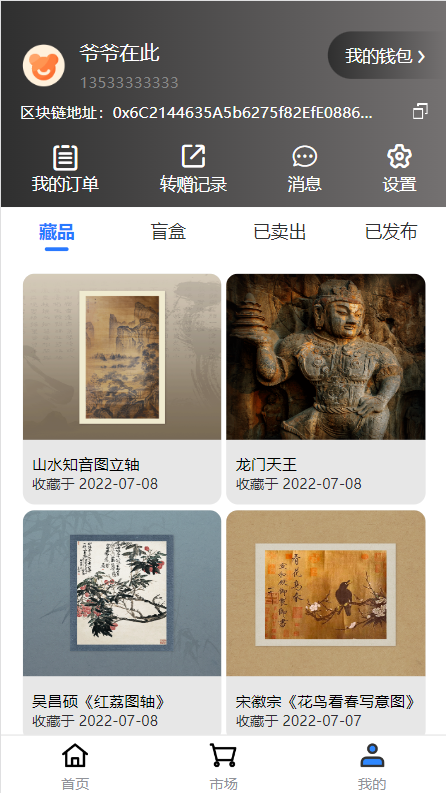
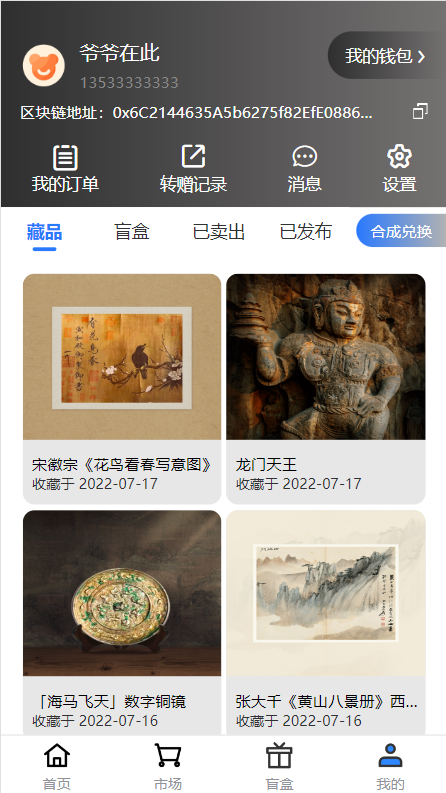
增加藏品合成兑换功能

diff --git a/README.md b/README.md
@@ -43,6 +43,11 @@
         <td><img src="https://github.com/muyu8848/nft/blob/main/img/14.jpg"/></td>
 	<td><img src="https://github.com/muyu8848/nft/blob/main/img/15.jpg"/></td>
     </tr>
+    <tr>
+        <td><img src="https://github.com/muyu8848/nft/blob/main/img/16.jpg"/></td>
+        <td><img src="https://github.com/muyu8848/nft/blob/main/img/17.jpg"/></td>
+	<td><img src="https://github.com/muyu8848/nft/blob/main/img/18.jpg"/></td>
+    </tr>
 	 
 </table>
 
